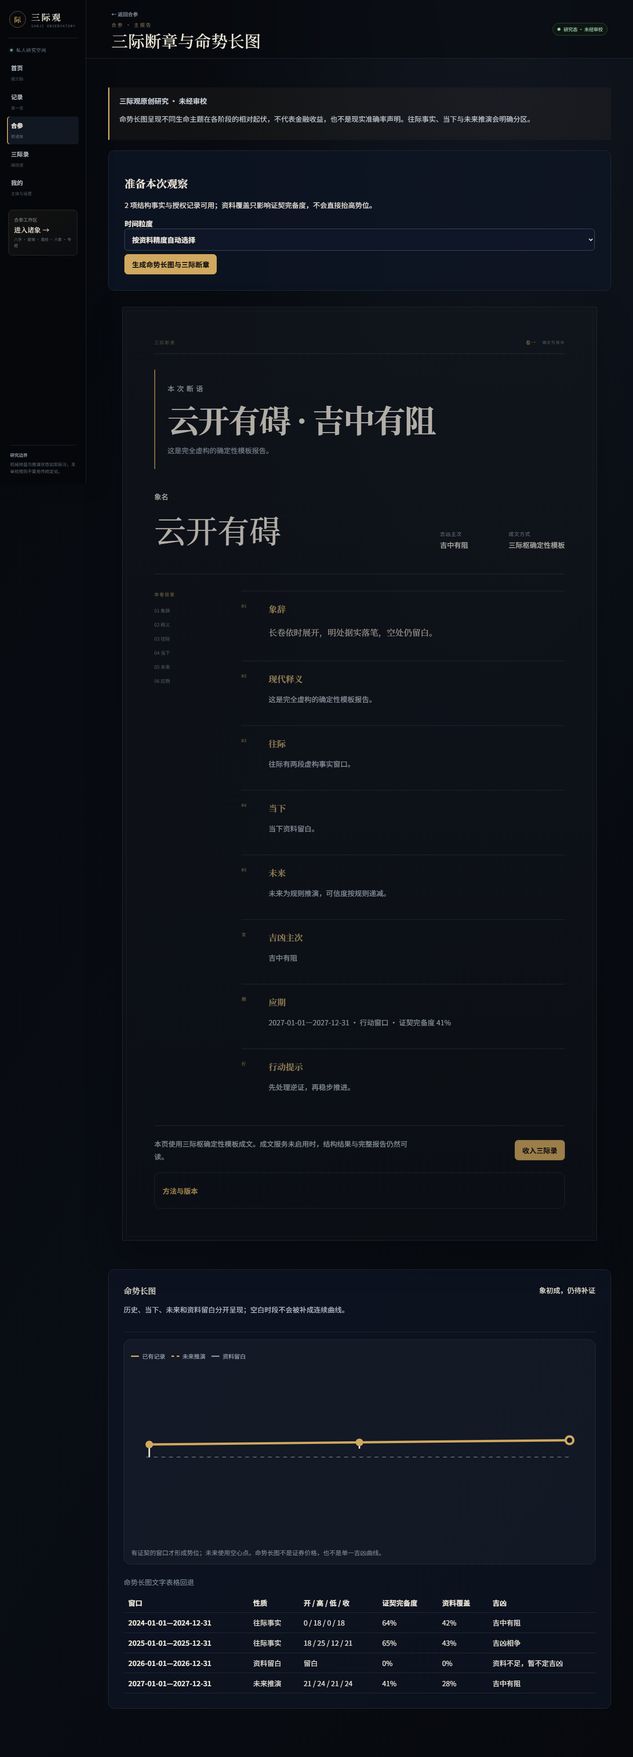
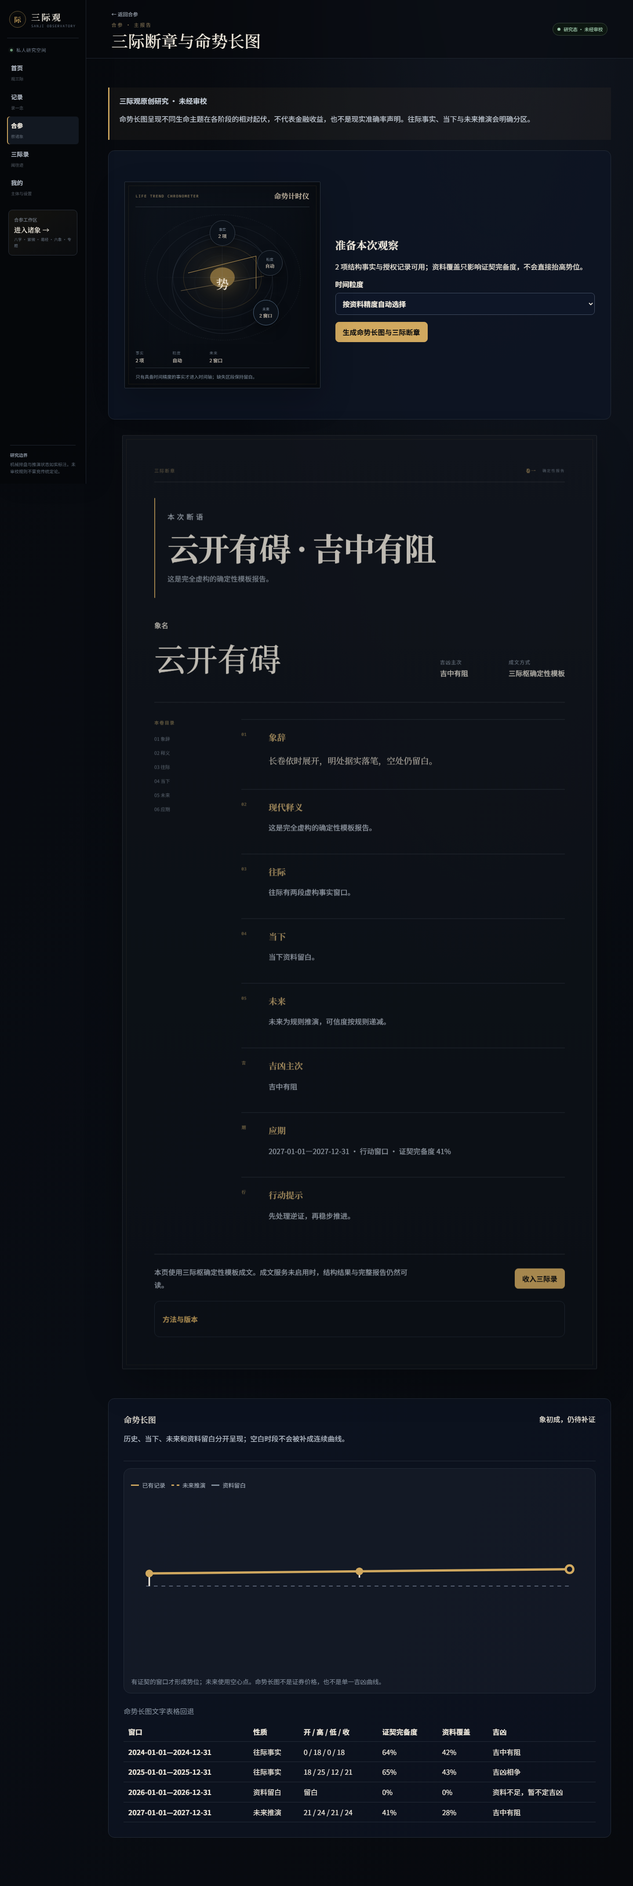
feat(web): establish zhuxiang instrument experience

diff --git a/apps/web/app/styles.css b/apps/web/app/styles.css
@@ -251,3 +251,53 @@ body{background:#07090d;color:var(--lotus)}
 @media(max-width:1000px){.home-observatory{min-height:380px}.home-celestial{width:min(43vw,330px)}.tool-instrument{width:92px}.tool-grid article h2{max-width:calc(100% - 86px)}}
 @media(max-width:767px){.home-observatory{min-height:410px;margin-top:25px}.home-celestial{width:min(88vw,330px)}.home-observatory>.product-state{bottom:0;width:92%}.tool-instrument{right:16px;top:58px;width:100px}.ritual-progress{display:grid;grid-template-columns:auto 1fr auto 1fr auto;gap:6px;font-size:.6rem}.tool-grid article h2{max-width:calc(100% - 92px)}}
 @media(prefers-reduced-motion:reduce){.home-celestial>i,.tool-instrument>i,.ritual-progress i,.liuxiang-result,.report-reader{animation:none!important}.tool-grid article:hover .tool-instrument{transform:none}}
+
+/* V1.2 诸象成仪 — every diagram is a projection of returned structure, never a second calculator. */
+.result-stage,.topic-result__instrument,.life-trend-preflight{display:grid;grid-template-columns:minmax(360px,.86fr) minmax(0,1.14fr);gap:34px;align-items:stretch;margin:34px 0}
+.result-stage>.scope-card,.topic-result__instrument>div,.life-trend-preflight>div{align-self:center}
+.result-stage>.scope-card{margin:0;padding:34px;border:1px solid #2b333e;border-radius:2px;background:linear-gradient(145deg,rgba(16,23,33,.9),rgba(8,12,18,.7))}
+.structure-callout{font:500 clamp(1.55rem,3vw,2.6rem) "Noto Serif SC",serif;letter-spacing:.16em;color:#e9decb}
+.result-primary--instrument{grid-template-columns:minmax(360px,.9fr) minmax(300px,1.1fr)}
+
+.observation-instrument{position:relative;isolation:isolate;min-height:470px;margin:0;display:grid;align-content:center;justify-items:center;overflow:hidden;border:1px solid #2d3540;border-radius:2px;background:radial-gradient(circle at 50% 45%,rgba(207,165,84,.105),transparent 29%),linear-gradient(145deg,#0e141d,#090d13 68%);box-shadow:inset 0 0 90px rgba(0,0,0,.42),0 28px 72px rgba(0,0,0,.22)}
+.observation-instrument::before{content:"";position:absolute;inset:8px;z-index:-1;border:1px solid rgba(205,165,88,.1);pointer-events:none}
+.observation-instrument>header{position:absolute;z-index:4;left:24px;right:24px;top:20px;display:flex;justify-content:space-between;align-items:center;padding-bottom:13px;border-bottom:1px solid #29313a}
+.observation-instrument>header small{font:600 .54rem "Noto Sans Mono",monospace;letter-spacing:.16em;color:#776b53}.observation-instrument>header b{font:500 1rem "Noto Serif SC",serif;color:#d8c9b2}
+.instrument-frame{position:absolute;z-index:-1;inset:74px 10% 108px;display:grid;place-items:center}
+.instrument-frame::before,.instrument-frame::after,.instrument-frame>i{content:"";position:absolute;inset:8%;border:1px solid rgba(154,169,187,.12);border-radius:50%}
+.instrument-frame::after{inset:25%;border-color:rgba(207,165,84,.22)}
+.instrument-frame>i:nth-child(1){inset:0;border-style:dashed;animation:celestial-spin 95s linear infinite}
+.instrument-frame>i:nth-child(2){inset:18%;border-color:rgba(111,133,161,.18);animation:celestial-spin 65s linear infinite reverse}
+.instrument-frame>i:nth-child(3){inset:42%;border:0;background:rgba(209,166,82,.55);box-shadow:0 0 36px rgba(209,166,82,.26)}
+.instrument-frame>span{position:absolute;width:1px;height:100%;background:linear-gradient(transparent,rgba(135,151,171,.18),transparent)}.instrument-frame>span:last-child{transform:rotate(90deg)}
+.observation-instrument figcaption{position:absolute;left:24px;right:24px;bottom:17px;margin:0;padding-top:12px;border-top:1px solid #29313a;color:#768391;font-size:.64rem;line-height:1.55;text-align:left}
+.instrument-legend{position:absolute;z-index:4;left:24px;right:24px;bottom:55px;display:flex;gap:16px;margin:0;overflow:hidden}.instrument-legend>div{min-width:68px}.instrument-legend dt{color:#65717f;font-size:.54rem}.instrument-legend dd{margin:4px 0 0;overflow:hidden;text-overflow:ellipsis;white-space:nowrap;color:#c9c1b5;font-size:.67rem}
+
+.instrument-hexagram{position:relative;z-index:2;width:148px;display:grid;gap:13px;margin-top:-6px}.instrument-hexagram>span{position:relative;display:block;height:11px;background:linear-gradient(90deg,#c49b50,#efd291);box-shadow:0 0 18px rgba(214,171,91,.12)}
+.instrument-hexagram>span[data-yin=true]{background:linear-gradient(90deg,#c49b50 0 43%,transparent 43% 57%,#efd291 57%)}
+.instrument-hexagram>span[data-moving=true]::after{content:"";position:absolute;right:-22px;top:50%;width:7px;height:7px;transform:translateY(-50%);border:1px solid #e4b65f;border-radius:50%;box-shadow:0 0 14px #d4a34d}
+.observation-instrument[data-mode=yijing] .instrument-frame{transform:rotate(22.5deg)}
+
+.instrument-pillars{position:relative;z-index:2;display:grid;grid-template-columns:repeat(4,64px);gap:13px;margin-top:-8px}.instrument-pillars>span{display:grid;justify-items:center;gap:5px;padding:12px 8px 15px;border:1px solid #4a4234;background:linear-gradient(180deg,rgba(207,165,84,.1),rgba(11,16,23,.85));box-shadow:0 16px 30px rgba(0,0,0,.22)}
+.instrument-pillars small{font-size:.52rem;color:#6e7986}.instrument-pillars b,.instrument-pillars em{font:500 1.75rem "Noto Serif SC",serif;color:#e9dfd0}.instrument-pillars em{color:#bf9a5b;font-style:normal}.observation-instrument[data-mode=bazi] .instrument-frame{inset:92px 6% 118px;border:1px solid rgba(199,158,79,.1);transform:rotate(45deg)}
+
+.instrument-palaces{position:relative;z-index:2;width:218px;aspect-ratio:1;margin-top:-8px;border:1px solid #514936;transform:rotate(15deg);background:repeating-conic-gradient(from 0deg,rgba(205,164,84,.08) 0 1deg,transparent 1deg 30deg)}
+.instrument-palaces::before{content:"";position:absolute;inset:23%;border:1px solid #514936;background:#0c121a}.instrument-palaces>b{position:absolute;inset:0;display:grid;place-items:center;transform:rotate(-15deg);color:#e5d6bd;font:500 2.1rem "Noto Serif SC",serif}
+.instrument-palaces>i{position:absolute;left:50%;top:50%;width:1px;height:50%;transform-origin:50% 0;background:linear-gradient(rgba(203,164,88,.28),transparent)}
+.instrument-palaces>i:nth-child(1){transform:rotate(0deg)}.instrument-palaces>i:nth-child(2){transform:rotate(30deg)}.instrument-palaces>i:nth-child(3){transform:rotate(60deg)}.instrument-palaces>i:nth-child(4){transform:rotate(90deg)}.instrument-palaces>i:nth-child(5){transform:rotate(120deg)}.instrument-palaces>i:nth-child(6){transform:rotate(150deg)}.instrument-palaces>i:nth-child(7){transform:rotate(180deg)}.instrument-palaces>i:nth-child(8){transform:rotate(210deg)}.instrument-palaces>i:nth-child(9){transform:rotate(240deg)}.instrument-palaces>i:nth-child(10){transform:rotate(270deg)}.instrument-palaces>i:nth-child(11){transform:rotate(300deg)}.instrument-palaces>i:nth-child(12){transform:rotate(330deg)}
+
+.instrument-orbit{position:relative;z-index:2;width:230px;aspect-ratio:1;margin-top:-8px;border:1px solid rgba(135,151,171,.2);border-radius:50%;background:radial-gradient(circle,rgba(207,165,84,.12),transparent 12% 38%,rgba(117,139,169,.045) 39%,transparent 40%)}
+.instrument-orbit::before,.instrument-orbit::after{content:"";position:absolute;inset:16%;border:1px solid rgba(205,165,87,.24);border-radius:50%}.instrument-orbit::after{inset:36%;border-color:#584c35}
+.instrument-orbit>b{position:absolute;inset:0;display:grid;place-items:center;color:#eadfcd;font:500 1.8rem "Noto Serif SC",serif}
+.instrument-node{position:absolute;z-index:3;width:58px;height:58px;display:grid;place-items:center;align-content:center;border:1px solid #3b4551;border-radius:50%;background:#0b1119;box-shadow:0 12px 26px rgba(0,0,0,.35);text-align:center}.instrument-node small{font-size:.5rem;color:#768391}.instrument-node em{max-width:48px;overflow:hidden;text-overflow:ellipsis;white-space:nowrap;color:#d5c9b7;font:500 .65rem "Noto Serif SC",serif}.instrument-node[data-state=counter]{border-color:#7b5a4b}.instrument-node[data-state=missing]{border-style:dashed;opacity:.68}.instrument-node[data-state=future]{border-color:#526982}
+.instrument-node--1{left:50%;top:-13%;transform:translateX(-50%)}.instrument-node--2{right:-10%;top:17%}.instrument-node--3{right:-6%;bottom:8%}.instrument-node--4{left:50%;bottom:-13%;transform:translateX(-50%)}.instrument-node--5{left:-6%;bottom:8%}.instrument-node--6{left:-10%;top:17%}
+.observation-instrument[data-mode=sushe] .instrument-orbit{border-style:dashed;background:radial-gradient(circle at 33% 28%,rgba(218,181,111,.16) 0 1px,transparent 2px),radial-gradient(circle at 70% 72%,rgba(132,154,186,.16) 0 1px,transparent 2px)}
+.observation-instrument[data-mode=zhongyin] .instrument-orbit{border-radius:48% 48% 6px 6px;border-color:#5c5039}.observation-instrument[data-mode=zhongyin] .instrument-orbit::before{border-radius:48% 48% 4px 4px}.observation-instrument[data-mode=zhongyin] .instrument-frame>span:first-of-type{width:38%;height:1px;background:linear-gradient(90deg,transparent,#b79251,transparent)}
+.observation-instrument[data-mode=yuanqi] .instrument-orbit::before{inset:22% 48% 22% 5%}.observation-instrument[data-mode=yuanqi] .instrument-orbit::after{inset:22% 5% 22% 48%}.observation-instrument[data-mode=yuanqi] .instrument-orbit{border-style:dashed}
+.observation-instrument[data-mode=life-trend] .instrument-orbit::before{inset:50% 8% auto;height:1px;border:0;border-top:1px solid #786748;border-radius:0;transform:rotate(-10deg)}.observation-instrument[data-mode=life-trend] .instrument-orbit::after{inset:31% 16% 36%;border:0;border-right:1px solid #cba35b;border-top:1px solid #cba35b;border-radius:0;transform:skewY(-14deg)}
+
+.ritual-progress--staged{display:grid;grid-template-columns:repeat(3,1fr);gap:1px;padding:0;background:#2b333e;border-color:#2b333e}.ritual-progress--staged>span{display:flex;align-items:center;gap:9px;padding:12px 10px;background:#0d131c;color:#687482;letter-spacing:0}.ritual-progress--staged>span>i{flex:none;width:23px;height:23px;display:grid;place-items:center;border:1px solid #3a4552;border-radius:50%;background:none;color:#7b8794;font:600 .52rem "Noto Sans Mono",monospace;animation:none}.ritual-progress--staged>span[data-state=current]{color:#d6c7ae;background:linear-gradient(90deg,rgba(203,160,78,.11),#0d131c)}.ritual-progress--staged>span[data-state=current]>i{border-color:#af8a49;color:#e3bc71;box-shadow:0 0 18px rgba(207,165,84,.14)}.ritual-progress--staged>span[data-state=done]>i{border-color:#486452;color:#8fbd9b}
+
+@media(max-width:1000px){.result-stage,.topic-result__instrument,.life-trend-preflight,.result-primary--instrument{grid-template-columns:1fr}.observation-instrument{min-height:440px}.result-primary--instrument>.observation-instrument{order:0}.result-primary--instrument>div{order:1}}
+@media(max-width:767px){.result-stage,.topic-result__instrument,.life-trend-preflight{display:block}.observation-instrument{min-height:420px;margin-bottom:22px}.observation-instrument>header{left:17px;right:17px}.instrument-frame{inset:72px 2% 110px}.instrument-pillars{grid-template-columns:repeat(4,55px);gap:8px}.instrument-pillars>span{padding-inline:5px}.instrument-legend{left:17px;right:17px;gap:10px}.instrument-legend>div{min-width:57px}.observation-instrument figcaption{left:17px;right:17px}.ritual-progress--staged{grid-template-columns:1fr}.ritual-progress--staged>span{min-height:44px}.topic-result__instrument>.observation-instrument{margin-bottom:18px}}
+@media(prefers-reduced-motion:reduce){.instrument-frame>i{animation:none!important}}

diff --git a/apps/web/components/ZiweiCompleteJourney.tsx b/apps/web/components/ZiweiCompleteJourney.tsx
@@ -2,6 +2,7 @@
 
 import Link from "next/link";import {useEffect,useState} from "react";
 import ProductShell,{PageState,TechnicalDetails} from "./ProductShell";import {apiRequest,readProductSession} from "../lib/product-session";
+import ObservationInstrument,{RitualProgress} from "./ObservationInstrument";
 
 export default function ZiweiCompleteJourney(){
  const [profileId,setProfileId]=useState("");const [year,setYear]=useState("");const [month,setMonth]=useState("");const [day,setDay]=useState("");const [hour,setHour]=useState("0");const [sex,setSex]=useState("male");const [leap,setLeap]=useState(false);const [run,setRun]=useState<any>(null);const [busy,setBusy]=useState(false);const [error,setError]=useState("");
@@ -9,5 +10,6 @@ export default function ZiweiCompleteJourney(){
  async function execute(){setError("");if(!year||!month||!day){setError("请录入经过人工确认的农历年月日。当前不会自动把公历静默转换为农历。");return}setBusy(true);try{setRun(await apiRequest<any>("/api/v1/traditional-complete/execute",{method:"POST",body:JSON.stringify({profile_record_id:profileId,ziwei:{lunar_year:Number(year),lunar_month:leap?-Number(month):Number(month),lunar_day:Number(day),hour_index:Number(hour),traditional_sex:sex,target_date:new Date().toISOString().slice(0,10),method_profile:{profile_id:"ziwei-sanhe-complete-v1",version:"1.0.0",leap_month_policy:"iztro_fix_leap_true"}}})}))}catch(e){setError(e instanceof Error?e.message:String(e))}finally{setBusy(false)}}
  if(!profileId)return <ProductShell title="紫微机械结构" eyebrow="合参 · 紫微"><PageState kind="insufficient" title="请先建立主体"><Link className="product-button" href="/onboarding">建立主体</Link></PageState></ProductShell>;
  const system=run?.result?.module_results?.["traditional-complete"]?.result?.systems?.find((v:any)=>v.system==="ziwei");const result=system?.result;const mechanical=run?.mechanical_results?.ziwei;
- return <ProductShell title="紫微三合研究结构" eyebrow="合参 · 紫微" status="research_active · UNCONFIRMED"><aside className="privacy-note"><b>受限三合研究 Profile</b><p>请输入人工确认的农历资料。闰月策略固定显示，不隐藏选择；本页不宣称覆盖所有紫微门派。</p></aside><section className="product-form"><div className="field-pair"><label>农历年<input type="number" min="1600" max="2600" value={year} onChange={e=>setYear(e.target.value)}/></label><label>农历月<input type="number" min="1" max="12" value={month} onChange={e=>setMonth(e.target.value)}/></label></div><div className="field-pair"><label>农历日<input type="number" min="1" max="30" value={day} onChange={e=>setDay(e.target.value)}/></label><label>时支序号（子=0）<input type="number" min="0" max="11" value={hour} onChange={e=>setHour(e.target.value)}/></label></div><label className="check-field"><input type="checkbox" checked={leap} onChange={e=>setLeap(e.target.checked)}/><span>这是闰月</span></label><label>传统性别参数<select value={sex} onChange={e=>setSex(e.target.value)}><option value="male">男</option><option value="female">女</option></select></label><button className="product-button" disabled={busy} onClick={execute}>{busy?"正在计算…":"执行紫微研究 Profile"}</button>{error&&<p role="alert" className="field-error">{error}</p>}</section>{system&&<><section className="scope-card"><h2>宫盘摘要</h2><p>命宫 {result.life_palace_branch}；身宫 {result.body_palace_branch}；五行局 {result.five_element_bureau}</p><p>十二宫 {result.palaces?.length}；主星结构 {mechanical?.palaces?.length||0} 宫；Profile {system.profile_id}；状态 {system.status}</p></section><TechnicalDetails><pre>{JSON.stringify({profile:system.profile_id,ruleset:system.ruleset_version,mechanical,result,output_hash:run.result.output_hash,trace_hash:run.result.trace_hash},null,2)}</pre></TechnicalDetails></>}</ProductShell>;
+ const palaceItems=[{label:"命宫",value:result?.life_palace_branch||"—"},{label:"身宫",value:result?.body_palace_branch||"—"},{label:"五行局",value:result?.five_element_bureau||"—"},{label:"宫位",value:`${result?.palaces?.length||0} 宫`}];
+ return <ProductShell title="紫微三合研究结构" eyebrow="合参 · 紫微" status="research_active · UNCONFIRMED"><aside className="privacy-note"><b>受限三合研究 Profile</b><p>请输入人工确认的农历资料。闰月策略固定显示，不隐藏选择；本页不宣称覆盖所有紫微门派。</p></aside><section className="product-form"><div className="field-pair"><label>农历年<input type="number" min="1600" max="2600" value={year} onChange={e=>setYear(e.target.value)}/></label><label>农历月<input type="number" min="1" max="12" value={month} onChange={e=>setMonth(e.target.value)}/></label></div><div className="field-pair"><label>农历日<input type="number" min="1" max="30" value={day} onChange={e=>setDay(e.target.value)}/></label><label>时支序号（子=0）<input type="number" min="0" max="11" value={hour} onChange={e=>setHour(e.target.value)}/></label></div><label className="check-field"><input type="checkbox" checked={leap} onChange={e=>setLeap(e.target.checked)}/><span>这是闰月</span></label><label>传统性别参数<select value={sex} onChange={e=>setSex(e.target.value)}><option value="male">男</option><option value="female">女</option></select></label>{busy&&<RitualProgress steps={["历法核验","命身定位","十二宫安置"]} current={1}/>}<button className="product-button" disabled={busy} onClick={execute}>{busy?"正在计算…":"执行紫微研究 Profile"}</button>{error&&<p role="alert" className="field-error">{error}</p>}</section>{system&&<><section className="result-stage"><ObservationInstrument mode="ziwei" title="十二宫盘" items={palaceItems} caption="只呈现当前引擎已确定的宫盘结构，不补充未经审校的星曜解释。"/><div className="scope-card"><p className="eyebrow">宫盘摘要</p><h2>命身与五行局</h2><p className="structure-callout">命宫 {result.life_palace_branch}　身宫 {result.body_palace_branch}</p><p>五行局 {result.five_element_bureau}</p><p>十二宫 {result.palaces?.length}；主星结构 {mechanical?.palaces?.length||0} 宫；Profile {system.profile_id}；状态 {system.status}</p></div></section><TechnicalDetails><pre>{JSON.stringify({profile:system.profile_id,ruleset:system.ruleset_version,mechanical,result,output_hash:run.result.output_hash,trace_hash:run.result.trace_hash},null,2)}</pre></TechnicalDetails></>}</ProductShell>;
 }

diff --git a/apps/web/tests/evidence/v1-rc-evidence.spec.ts b/apps/web/tests/evidence/v1-rc-evidence.spec.ts
@@ -141,3 +141,9 @@ test("three coin mechanical entry",async({page})=>{await page.setViewportSize({w
 test("bazi unknown-time boundary",async({page})=>{await page.setViewportSize({width:1440,height:1000});await seedSyntheticSubject(page);await page.route(`**/api/v1/profiles/${profileId}`,async route=>route.fulfill({status:200,contentType:"application/json",body:JSON.stringify({id:profileId,birth_record_status:"confirmed",birth:{calendar_type:"gregorian",local_date:"1990-01-01",local_time:null,timezone_id:"Asia/Shanghai",time_precision:"unknown",place:{longitude:121.4737}}})}));await page.goto("/consult/bazi");await expect(page.getByRole("heading",{name:"出生时刻未知，暂不生成完整四柱"})).toBeVisible();await page.screenshot({path:path.join(evidenceDir,"v1-1-bazi-unknown-time-1440.png"),fullPage:true});});
 test("ziwei research input",async({page})=>{await page.setViewportSize({width:1440,height:1000});await seedSyntheticSubject(page);await page.goto("/consult/ziwei");await expect(page.getByRole("heading",{name:"紫微三合研究结构"})).toBeVisible();await page.screenshot({path:path.join(evidenceDir,"v1-1-ziwei-research-1440.png"),fullPage:true});});
 test("network offline state",async({page})=>{await page.setViewportSize({width:390,height:844});await page.goto("/offline");await expect(page.getByRole("heading",{name:"暂时无法连接三际观服务"})).toBeVisible();await page.screenshot({path:path.join(evidenceDir,"v1-1-network-offline-390.png"),fullPage:true});});
+
+test("yijing result instrument",async({page})=>{await page.setViewportSize({width:1440,height:1100});const runId="synthetic-yijing-instrument";await page.route(`**/api/v1/divinations/${runId}`,async route=>route.fulfill({status:200,contentType:"application/json",body:JSON.stringify({id:runId,research_status:"research_active",result_hash:"sha256:synthetic-yijing-instrument",engine_result:{lines:[{line_position:1,sum:8,line_state:"young_yin",moving:false},{line_position:2,sum:7,line_state:"young_yang",moving:false},{line_position:3,sum:9,line_state:"old_yang",moving:true},{line_position:4,sum:8,line_state:"young_yin",moving:false},{line_position:5,sum:7,line_state:"young_yang",moving:false},{line_position:6,sum:6,line_state:"old_yin",moving:true}],moving_lines:[3,6],base_hexagram:{sequence:63,name:"既济",key:"ji_ji"},transformed_hexagram:{sequence:37,name:"家人",key:"jia_ren"},method_version:"1.0.0",mapping_asset:{asset_version:"1.0.0"}}})}));await page.goto(`/results/${runId}`);await expect(page.getByText("既济 → 家人")).toBeVisible();await page.screenshot({path:path.join(evidenceDir,"v1-2-yijing-instrument-1440.png"),fullPage:true});});
+
+test("bazi four-pillar instrument",async({page})=>{await page.setViewportSize({width:1440,height:1100});await seedSyntheticSubject(page);await page.route(`**/api/v1/profiles/${profileId}`,async route=>route.fulfill({status:200,contentType:"application/json",body:JSON.stringify({id:profileId,birth_record_status:"confirmed",birth:{calendar_type:"gregorian",local_date:"1990-01-01",local_time:"12:30:00",timezone_id:"Asia/Shanghai",time_precision:"exact",place:{longitude:121.4737}}})}));await page.route("**/api/v1/traditional-complete/execute",async route=>route.fulfill({status:201,contentType:"application/json",body:JSON.stringify({id:"synthetic-bazi",mechanical_results:{bazi:{pillars:{year:"己巳",month:"丙子",day:"丙寅",hour:"甲午"}}},result:{output_hash:"sha256:synthetic-bazi-output",trace_hash:"sha256:synthetic-bazi-trace",module_results:{"traditional-complete":{result:{status:"research_active",warnings:[],systems:[{system:"bazi",profile_id:"bazi-ziping-complete-v1",ruleset_version:"1.0.0",strength_bp:5200,confidence_bp:4300,status:"provisional",result:{strength:{status:"research_only",balance_bp:400},pattern:{candidate:"结构候选【可能】"},useful_elements:{candidates:["研究候选"]}}}]}}}}})}));await page.goto("/consult/bazi");await page.getByRole("button",{name:"按当前研究方法排盘"}).click();await expect(page.getByRole("heading",{name:"四柱与传统结构"})).toBeVisible();await page.screenshot({path:path.join(evidenceDir,"v1-2-bazi-instrument-1440.png"),fullPage:true});});
+
+test("ziwei palace instrument",async({page})=>{await page.setViewportSize({width:1440,height:1100});await seedSyntheticSubject(page);await page.route("**/api/v1/traditional-complete/execute",async route=>route.fulfill({status:201,contentType:"application/json",body:JSON.stringify({id:"synthetic-ziwei",mechanical_results:{ziwei:{palaces:Array.from({length:12},(_,index)=>({index}))}},result:{output_hash:"sha256:synthetic-ziwei-output",trace_hash:"sha256:synthetic-ziwei-trace",module_results:{"traditional-complete":{result:{status:"research_active",warnings:[],systems:[{system:"ziwei",profile_id:"ziwei-sanhe-complete-v1",ruleset_version:"1.0.0",strength_bp:0,confidence_bp:4200,status:"provisional",result:{life_palace_branch:"午",body_palace_branch:"申",five_element_bureau:"木三局",palaces:Array.from({length:12},(_,index)=>({index}))}}]}}}}})}));await page.goto("/consult/ziwei");await page.locator("input[type=number]").nth(0).fill("1990");await page.locator("input[type=number]").nth(1).fill("6");await page.locator("input[type=number]").nth(2).fill("9");await page.getByRole("button",{name:"执行紫微研究 Profile"}).click();await expect(page.getByRole("heading",{name:"命身与五行局"})).toBeVisible();await page.screenshot({path:path.join(evidenceDir,"v1-2-ziwei-instrument-1440.png"),fullPage:true});});

diff --git a/apps/web/components/BaziCompleteJourney.tsx b/apps/web/components/BaziCompleteJourney.tsx
@@ -3,6 +3,7 @@
 import Link from "next/link";
 import {useEffect,useState} from "react";
 import ProductShell,{MetricPair,PageState,TechnicalDetails} from "./ProductShell";
+import ObservationInstrument,{RitualProgress} from "./ObservationInstrument";
 import {apiRequest,readProductSession} from "../lib/product-session";
 
 type Birth={calendar_type:string;local_date:string;local_time:string|null;timezone_id:string;time_precision:string;place:{longitude:number}};
@@ -18,5 +19,6 @@ export default function BaziCompleteJourney(){
  if(!profile)return <ProductShell title="八字传统结构" eyebrow="合参 · 八字"><PageState kind="insufficient" title="请先建立主体"><Link className="product-button" href="/onboarding">建立主体</Link></PageState></ProductShell>;
  if(!profile.birth||!profile.birth.local_time)return <ProductShell title="八字传统结构" eyebrow="合参 · 八字"><PageState kind="insufficient" title="出生时刻未知，暂不生成完整四柱"><p>系统不会补造时辰。可先完善资料，或继续使用未知时辰的候选研究。</p><Link className="product-button" href="/onboarding">完善资料</Link></PageState></ProductShell>;
  const system=run?.result.module_results["traditional-complete"].result.systems.find(v=>v.system==="bazi");const result=system?.result;const mechanical=run?.mechanical_results?.bazi;
- return <ProductShell title="八字传统结构" eyebrow="合参 · 八字" status="研究中 · 尚未审校"><aside className="privacy-note"><b>固定研究方法，不代表所有八字流派共识</b><p>结构与候选由确定性引擎生成；DeepSeek 不参与。旺衰、格局、调候和用神仍是该方法下的研究候选。</p></aside><section className="product-form"><label>传统性别参数<select value={sex} onChange={e=>setSex(e.target.value)}><option value="male">男</option><option value="female">女</option></select></label><button className="product-button" disabled={state==="running"} onClick={execute}>{state==="running"?"正在计算…":"按当前研究方法排盘"}</button>{error&&<p role="alert" className="field-error">{error}</p>}</section>{system&&<><section className="scope-card"><h2>四柱与传统结构</h2><p>{Object.values(mechanical?.pillars||{}).join("　")}</p><MetricPair strengthBp={system.strength_bp} confidenceBp={system.confidence_bp}/><p>当前状态：{system.status}</p><h3>旺衰研究证据</h3><p>{result.strength?.status} · 平衡基点 {result.strength?.balance_bp}</p><h3>格局与用神研究候选</h3><p>{result.pattern?.candidate} · {result.useful_elements?.candidates?.join("、")}</p></section><TechnicalDetails><pre>{JSON.stringify({profile:system.profile_id,ruleset:system.ruleset_version,mechanical,result,output_hash:run?.result.output_hash,trace_hash:run?.result.trace_hash},null,2)}</pre></TechnicalDetails></>}</ProductShell>;
+ const pillars=Object.entries(mechanical?.pillars||{}).map(([label,value])=>({label:{year:"年柱",month:"月柱",day:"日柱",hour:"时柱"}[label]||label,value:String(value)}));
+ return <ProductShell title="八字传统结构" eyebrow="合参 · 八字" status="研究中 · 尚未审校"><aside className="privacy-note"><b>固定研究方法，不代表所有八字流派共识</b><p>结构与候选由确定性引擎生成；DeepSeek 不参与。旺衰、格局、调候和用神仍是该方法下的研究候选。</p></aside><section className="product-form"><label>传统性别参数<select value={sex} onChange={e=>setSex(e.target.value)}><option value="male">男</option><option value="female">女</option></select></label>{state==="running"&&<RitualProgress steps={["时刻校正","节气定界","四柱成盘"]} current={1}/>}<button className="product-button" disabled={state==="running"} onClick={execute}>{state==="running"?"正在计算…":"按当前研究方法排盘"}</button>{error&&<p role="alert" className="field-error">{error}</p>}</section>{system&&<><section className="result-stage"><ObservationInstrument mode="bazi" title="四柱结构" items={pillars} caption="四柱按当前方法 Profile 形成；结构图不表示旺衰、格局或吉凶。"/><div className="scope-card"><p className="eyebrow">主要结构</p><h2>四柱与传统结构</h2><p className="structure-callout">{Object.values(mechanical?.pillars||{}).join("　")}</p><MetricPair strengthBp={system.strength_bp} confidenceBp={system.confidence_bp}/><p>当前状态：{system.status}</p><h3>旺衰研究证据</h3><p>{result.strength?.status} · 平衡基点 {result.strength?.balance_bp}</p><h3>格局与用神研究候选</h3><p>{result.pattern?.candidate} · {result.useful_elements?.candidates?.join("、")}</p></div></section><TechnicalDetails><pre>{JSON.stringify({profile:system.profile_id,ruleset:system.ruleset_version,mechanical,result,output_hash:run?.result.output_hash,trace_hash:run?.result.trace_hash},null,2)}</pre></TechnicalDetails></>}</ProductShell>;
 }

diff --git a/apps/web/components/TopicResearch.tsx b/apps/web/components/TopicResearch.tsx
@@ -3,6 +3,7 @@
 import Link from "next/link";
 import { useEffect, useState } from "react";
 import ProductShell, { MetricPair, PageState, TechnicalDetails, VerdictBanner } from "./ProductShell";
+import ObservationInstrument,{RitualProgress,type InstrumentMode} from "./ObservationInstrument";
 import { apiRequest, readProductSession } from "../lib/product-session";
 import { epistemicDisplay, productStatus } from "../lib/product-language";
 
@@ -47,6 +48,8 @@ function ep(value?:Epistemic<unknown>){
   return epistemicDisplay(shown,value.epistemic_status,value.confidence_bp);
 }
 
+function topicInstrument(mode:Topic):InstrumentMode{return mode==="sushe"?"sushe":mode.startsWith("zhongyin")?"zhongyin":"yuanqi"}
+
 export default function TopicResearch({topic}: {topic:Topic}){
   const [mode,setMode]=useState<Topic>(topic);
   const [profileId,setProfileId]=useState(""); const [items,setItems]=useState<Evidence[]>([]);
@@ -62,10 +65,10 @@ export default function TopicResearch({topic}: {topic:Topic}){
     {!profileId&&<PageState kind="insufficient" title="先建立或选择主体"><p>专题推演只读取你授权主体的记录。</p><Link className="product-button" href="/onboarding">建立主体</Link></PageState>}
     {profileId&&<section className="product-form" aria-label="专题资料选择"><h2>选择本次参与的资料</h2><p>{items.length} 条结构引用可用；撤销记录不会进入新执行。</p>
       {items.map(item=><label className="check-field" key={item.record_id}><input type="checkbox" checked={!excluded.has(item.record_id)&&!item.withdrawn} disabled={item.withdrawn} onChange={e=>setExcluded(old=>{const next=new Set(old);e.target.checked?next.delete(item.record_id):next.add(item.record_id);return next})}/><span><b>{item.node_type}</b><small>{item.tags.join("、")||"资料覆盖"}{item.withdrawn?" · 已撤销":""}</small></span></label>)}
-      <button className="product-button" aria-disabled={state==="running"} aria-busy={state==="running"} onClick={runTopic}>{state==="running"?"正在确定性推演…":"开始专题推演"}</button>
+      {state==="running"&&<RitualProgress steps={["事实归卷","证据成图","候选显现"]} current={1}/>}<button className="product-button" aria-disabled={state==="running"} aria-busy={state==="running"} onClick={runTopic}>{state==="running"?"正在确定性推演…":"开始专题推演"}</button>
     </section>}
     {error&&<PageState kind="error" title="本次执行未完成"><p>{error}。已有记录没有被覆盖，可检查资料后重试。</p></PageState>}
-    {run&&<section className="chronicle-detail topic-result"><VerdictBanner status={run.status} title={productStatus(run.status)}><p>{run.status==="insufficient"?"现有资料仍不足以形成稳定判断；下方候选保留为低可信研究线索。":run.status==="contested"?"主要候选彼此接近或存在明显冲突，请同时阅读支持、逆证与尚缺资料。":"结果已按当前资料和研究规则形成；它不是经过传统审校的定论。"}</p></VerdictBanner><MetricPair strengthBp={run.strength_bp} confidenceBp={run.confidence_bp}/>
+    {run&&<section className="chronicle-detail topic-result"><div className="topic-result__instrument"><ObservationInstrument mode={topicInstrument(mode)} title={COPY[mode].title} items={run.candidates.slice(0,3).map((item,index)=>({label:`候选 ${index+1}`,value:item.name?ep(item.name):productStatus(item.status),state:item.status==="contested"?"counter":item.status==="insufficient"?"missing":"active"}))} caption="图中只排列当前确定性执行返回的候选和状态；它不是历史事实或传统定论。"/><div><VerdictBanner status={run.status} title={productStatus(run.status)}><p>{run.status==="insufficient"?"现有资料仍不足以形成稳定判断；下方候选保留为低可信研究线索。":run.status==="contested"?"主要候选彼此接近或存在明显冲突，请同时阅读支持、逆证与尚缺资料。":"结果已按当前资料和研究规则形成；它不是经过传统审校的定论。"}</p></VerdictBanner><MetricPair strengthBp={run.strength_bp} confidenceBp={run.confidence_bp}/></div></div>
       {run.candidates.map((item,index)=><section key={item.candidate_id}><span>{String(index+1).padStart(2,"0")}</span><div>
         {item.name&&<h2>{ep(item.name)}</h2>}
         {!item.name&&<h2>候选 {item.rank} · {productStatus(item.status)}</h2>}

diff --git a/apps/web/components/LifeTrendResearch.tsx b/apps/web/components/LifeTrendResearch.tsx
@@ -3,6 +3,7 @@
 import Link from "next/link";
 import { useEffect, useState } from "react";
 import ProductShell, { PageState, TechnicalDetails, VerdictBanner } from "./ProductShell";
+import ObservationInstrument,{RitualProgress} from "./ObservationInstrument";
 import { apiRequest, readProductSession } from "../lib/product-session";
 import { productStatus } from "../lib/product-language";
 
@@ -40,7 +41,7 @@ export default function LifeTrendResearch() {
   if (state === "loading") return <ProductShell title="命势长图" eyebrow="合参 · 三际断章"><PageState kind="loading" title="正在读取授权资料"><p>正在取证。私人正文不会发送给外部模型。</p></PageState></ProductShell>;
   return <ProductShell title="三际断章与命势长图" eyebrow="合参 · 主报告" status="research only">
     <aside className="privacy-note"><b>三际观原创研究 · 未经审校</b><p>命势长图呈现不同生命主题在各阶段的相对起伏，不代表金融收益，也不是现实准确率声明。往际事实、当下与未来推演会明确分区。</p></aside>
-    {!profile ? <PageState kind="insufficient" title="先建立三际录"><p>建立主体并记录带时间精度的事实后，才能起一卷命势观察。</p><Link className="product-button" href="/onboarding">开始立卷</Link></PageState> : <section className="product-form"><h2>准备本次观察</h2><p>{evidence.length} 项结构事实与授权记录可用；资料覆盖只影响证契完备度，不会直接抬高势位。</p><label><span>时间粒度</span><select value={granularity} onChange={(event) => setGranularity(event.target.value)}><option value="auto">按资料精度自动选择</option><option value="month">月</option><option value="quarter">季</option><option value="year">年</option><option value="phase">多年阶段</option></select></label><button className="product-button" aria-disabled={state === "running"} aria-busy={state === "running"} onClick={start}>{state === "running" ? "正在取证、合参与成断…" : "生成命势长图与三际断章"}</button></section>}
+    {!profile ? <PageState kind="insufficient" title="先建立三际录"><p>建立主体并记录带时间精度的事实后，才能起一卷命势观察。</p><Link className="product-button" href="/onboarding">开始立卷</Link></PageState> : <section className="product-form"><div className="life-trend-preflight"><ObservationInstrument mode="life-trend" title="命势计时仪" items={[{label:"事实",value:`${evidence.length} 项`},{label:"粒度",value:granularity==="auto"?"自动":granularity},{label:"未来",value:"2 窗口",state:"future"}]} caption="只有具备时间精度的事实才进入时间轴；缺失区段保持留白。"/><div><h2>准备本次观察</h2><p>{evidence.length} 项结构事实与授权记录可用；资料覆盖只影响证契完备度，不会直接抬高势位。</p><label><span>时间粒度</span><select value={granularity} onChange={(event) => setGranularity(event.target.value)}><option value="auto">按资料精度自动选择</option><option value="month">月</option><option value="quarter">季</option><option value="year">年</option><option value="phase">多年阶段</option></select></label>{state==="running"&&<RitualProgress steps={["时间归序","诸势合参","断章成卷"]} current={1}/>}<button className="product-button" aria-disabled={state === "running"} aria-busy={state === "running"} onClick={start}>{state === "running" ? "正在取证、合参与成断…" : "生成命势长图与三际断章"}</button></div></div></section>}
     {error && <PageState kind="error" title="本次起卷未完成"><p>{error} 已有三际录未被覆盖，可检查连接后重试。</p></PageState>}
     {run && <>
       <article className="report-reader" aria-labelledby="report-title">

diff --git a/apps/web/components/ResultReader.tsx b/apps/web/components/ResultReader.tsx
@@ -2,6 +2,7 @@
 import Link from "next/link";
 import { useEffect, useState } from "react";
 import ProductShell, { PageState, TechnicalDetails } from "./ProductShell";
+import ObservationInstrument from "./ObservationInstrument";
 import { apiRequest } from "../lib/product-session";
 
 const lineNames:Record<string,string>={old_yin:"老阴",young_yang:"少阳",young_yin:"少阴",old_yang:"老阳"};
@@ -16,7 +17,7 @@ export default function ResultReader({runId,traditionalRunId}:{runId:string;trad
  const liuyao=traditional?.result.module_results["traditional-complete"].result.systems.find(v=>v.system==="liuyao");const complete=liuyao?.result;const mechanical=traditional?.mechanical_results?.liuyao;
  return <ProductShell title="易经三钱机械结果" eyebrow="合参 · 阅读结果" status="机械结构">
   <section className="result-summary"><div><p className="eyebrow">本次完成</p><h2>已按实物三钱记录形成卦象结构</h2><p>这不是吉凶、应期或人生结论。你可以核对六爻、本卦、变卦与动爻，然后在研究详情中查看版本。</p></div><span className="result-kind">机械排盘</span></section>
-  <section className="result-primary" aria-labelledby="structure-heading"><div><p className="eyebrow">主要结构</p><h2 id="structure-heading">{result?.base_hexagram?.name||"本卦"} → {result?.transformed_hexagram?.name||"变卦"}</h2><dl><div><dt>本卦</dt><dd>第 {result?.base_hexagram?.sequence||"—"} 卦 · {result?.base_hexagram?.name||"未返回"}</dd></div><div><dt>变卦</dt><dd>第 {result?.transformed_hexagram?.sequence||"—"} 卦 · {result?.transformed_hexagram?.name||"未返回"}</dd></div><div><dt>动爻</dt><dd>{result?.moving_lines?.length?result.moving_lines.join("、"):"无"}</dd></div></dl></div>
+  <section className="result-primary result-primary--instrument" aria-labelledby="structure-heading"><ObservationInstrument mode="yijing" title={result?.base_hexagram?.name||"本卦"} items={(result?.lines||[]).map(line=>({label:`第${line.line_position}爻`,value:lineNames[line.line_state]||line.line_state,state:line.moving?"moving":"active"}))} caption="六爻自下而上保存；亮点只标记真实动爻，不附加吉凶解释。"/><div><p className="eyebrow">主要结构</p><h2 id="structure-heading">{result?.base_hexagram?.name||"本卦"} → {result?.transformed_hexagram?.name||"变卦"}</h2><dl><div><dt>本卦</dt><dd>第 {result?.base_hexagram?.sequence||"—"} 卦 · {result?.base_hexagram?.name||"未返回"}</dd></div><div><dt>变卦</dt><dd>第 {result?.transformed_hexagram?.sequence||"—"} 卦 · {result?.transformed_hexagram?.name||"未返回"}</dd></div><div><dt>动爻</dt><dd>{result?.moving_lines?.length?result.moving_lines.join("、"):"无"}</dd></div></dl></div>
    <ol className="line-results">{result?.lines?.map((line)=><li key={line.line_position}><span>第 {line.line_position} 爻</span><b>{line.sum} · {lineNames[line.line_state]||line.line_state}</b><small>{line.moving?"动爻":"静爻"}</small></li>)}</ol>
   </section>
   {complete&&<section className="scope-card"><h2>六爻传统结构研究</h2><p>本卦 {mechanical?.primary?.name} · {mechanical?.primary?.palace}宫；世爻 {mechanical?.primary?.shi_position}；应爻 {mechanical?.primary?.ying_position}</p><p>用神候选：{complete.question?.liuqin||"资料不足"}；状态：{complete.question?.status}；结构化吉凶：{complete.verdict}</p><p>动爻：{complete.moving_lines?.join("、")||"无"}；伏吟：{complete.structural_flags?.fuyin_positions?.join("、")||"无"}；反吟：{complete.structural_flags?.fanyin_positions?.join("、")||"无"}</p><p className="inline-warning">此结果属于固定六爻研究 Profile，不等于所有六爻流派的唯一断法。</p></section>}

diff --git a/apps/web/components/ObservationInstrument.tsx b/apps/web/components/ObservationInstrument.tsx
@@ -1,0 +1,41 @@
+import type { ReactNode } from "react";
+
+export type InstrumentMode = "yijing" | "bazi" | "ziwei" | "liuxiang" | "sushe" | "zhongyin" | "yuanqi" | "life-trend";
+
+export type InstrumentItem = {
+  label: string;
+  value: string;
+  state?: "active" | "moving" | "future" | "missing" | "counter";
+};
+
+const MODE_COPY: Record<InstrumentMode,{mark:string;english:string}> = {
+  yijing:{mark:"易",english:"HEXAGRAM INSTRUMENT"},
+  bazi:{mark:"命",english:"FOUR PILLARS INSTRUMENT"},
+  ziwei:{mark:"微",english:"PALACE INSTRUMENT"},
+  liuxiang:{mark:"象",english:"EVIDENCE ORBIT"},
+  sushe:{mark:"世",english:"CANDIDATE STAR MAP"},
+  zhongyin:{mark:"间",english:"TRANSITION GATE"},
+  yuanqi:{mark:"缘",english:"RELATIONSHIP KNOT"},
+  "life-trend":{mark:"势",english:"LIFE TREND CHRONOMETER"},
+};
+
+export default function ObservationInstrument({mode,title,items=[],caption,children}:{mode:InstrumentMode;title:string;items?:InstrumentItem[];caption:string;children?:ReactNode}) {
+  const copy=MODE_COPY[mode];
+  return <figure className="observation-instrument" data-mode={mode}>
+    <div className="instrument-frame" aria-hidden="true"><i/><i/><i/><span/><span/></div>
+    <header><small>{copy.english}</small><b>{title}</b></header>
+    {mode==="yijing"&&<div className="instrument-hexagram" aria-hidden="true">{items.slice(0,6).reverse().map((item,index)=><span key={`${item.label}-${index}`} data-yin={item.value.includes("阴")} data-moving={item.state==="moving"}/>)}</div>}
+    {mode==="bazi"&&<div className="instrument-pillars" aria-hidden="true">{items.slice(0,4).map((item)=><span key={item.label}><small>{item.label}</small><b>{item.value.slice(0,1)||"·"}</b><em>{item.value.slice(1,2)||"·"}</em></span>)}</div>}
+    {mode==="ziwei"&&<div className="instrument-palaces" aria-hidden="true">{Array.from({length:12},(_,index)=><i key={index}/>)}<b>{copy.mark}</b></div>}
+    {!["yijing","bazi","ziwei"].includes(mode)&&<div className="instrument-orbit" aria-hidden="true"><b>{copy.mark}</b>{items.slice(0,6).map((item,index)=><span className={`instrument-node instrument-node--${index+1}`} data-state={item.state||"active"} key={`${item.label}-${index}`}><small>{item.label}</small><em>{item.value}</em></span>)}</div>}
+    {items.length>0&&<dl className="instrument-legend">{items.slice(0,6).map((item,index)=><div key={`${item.label}-${index}`}><dt>{item.label}</dt><dd>{item.value}</dd></div>)}</dl>}
+    {children}
+    <figcaption>{caption}</figcaption>
+  </figure>;
+}
+
+export function RitualProgress({steps,current}:{steps:string[];current:number}){
+  return <div className="ritual-progress ritual-progress--staged" role="status" aria-live="polite">
+    {steps.map((step,index)=><span key={step} data-state={index<current?"done":index===current?"current":"waiting"}><i>{index<current?"✓":String(index+1).padStart(2,"0")}</i>{step}</span>)}
+  </div>;
+}

diff --git a/apps/web/tests/visual/v1-release.spec.ts b/apps/web/tests/visual/v1-release.spec.ts
@@ -50,7 +50,8 @@ test("onboarding draft can resume without inventing missing birth time", async (
   await page.getByLabel("如何称呼这个主体").fill("虚构续卷主体");
   await page.getByLabel("出生时刻未知").check();
   await page.getByRole("link", { name: "暂存退出" }).click();
-  await page.reload();
+  await expect(page).toHaveURL(/\/$/);
+  await page.goto("/onboarding");
   await expect(page.getByLabel("如何称呼这个主体")).toHaveValue("虚构续卷主体");
   await expect(page.getByLabel("出生时刻未知")).toBeChecked();
   await expect(page.getByText("第 1—3 步，共 8 步")).toBeVisible();

diff --git a/scripts/validate_product_spine_v1.py b/scripts/validate_product_spine_v1.py
@@ -17,9 +17,10 @@ def main() -> None:
     nav_labels = ['label: "首页"', 'label: "记录"', 'label: "合参"', 'label: "三际录"', 'label: "我的"']
     assert all(label in shell for label in nav_labels), "five ordinary navigation labels required"
     assert shell.count("subtitle:") == 5, "ordinary primary navigation must contain exactly five entries"
-    for label in ("六象合参", "三际断章", "宿世星图", "中阴之门", "命势长图", "缘契图", "观照录", "历次命卷", "设置与数据管理"):
-        assert label in shell, f"desktop feature navigation missing: {label}"
-    assert "product-mobile-nav" in shell and "DESKTOP_FEATURES.map" in shell
+    consult = read("apps/web/components/ConsultCenter.tsx")
+    for label in ("易经三钱", "八字", "紫微", "六象合参", "宿世星图", "中阴之门", "缘契图", "三际断章与命势"):
+        assert label in consult, f"consult capability missing: {label}"
+    assert "product-mobile-nav" in shell and "TOOLS.slice" in consult
 
     liuxiang = read("apps/web/components/LiuxiangReadiness.tsx")
     for required in ("真实映射规则尚未通过审校", "不显示任何合成测试结果", "<VerdictBanner status={run.status}>"):

diff --git a/scripts/validate_v1_ux_evidence.py b/scripts/validate_v1_ux_evidence.py
@@ -36,6 +36,9 @@ EXPECTED = {
     "v1-1-bazi-unknown-time-1440.png": ("/consult/bazi", 1440, 1000, "八字未知时辰边界"),
     "v1-1-ziwei-research-1440.png": ("/consult/ziwei", 1440, 1000, "紫微研究输入"),
     "v1-1-network-offline-390.png": ("/offline", 390, 844, "网络失败离线壳"),
+    "v1-2-yijing-instrument-1440.png": ("/results/synthetic-yijing-instrument", 1440, 1100, "易经六爻演变仪"),
+    "v1-2-bazi-instrument-1440.png": ("/consult/bazi", 1440, 1100, "八字四柱结构台"),
+    "v1-2-ziwei-instrument-1440.png": ("/consult/ziwei", 1440, 1100, "紫微十二宫盘"),
 }
 
 
@@ -65,7 +68,7 @@ def expected_manifest() -> dict[str, object]:
             }
         )
     return {
-        "schema_version": "sanji-v1-1-evidence-manifest-1.0",
+        "schema_version": "sanji-v1-2-evidence-manifest-1.0",
         "evidence_class": "synthetic_conformance",
         "contains_real_user_data": False,
         "contains_provider_output": False,

diff --git a/docs/product/v1-2-zhuxiang-instruments.md b/docs/product/v1-2-zhuxiang-instruments.md
@@ -1,0 +1,48 @@
+# V1.2「诸象成仪」视觉系统
+
+## 目标
+
+“诸象成仪”把已有确定性结构投影为可阅读的研究仪器，使用户能够先看见主结构，再按需展开证据和版本。它是展示层，不是第二套算法。
+
+## 八类仪器
+
+| 能力 | 仪器 | 只允许投影的内容 |
+| --- | --- | --- |
+| 易经三钱 | 六爻演变仪 | 六爻阴阳、动爻、本卦和变卦 |
+| 八字 | 四柱结构台 | 当前 Profile 返回的年、月、日、时柱 |
+| 紫微 | 十二宫盘 | 已实现的命宫、身宫、五行局和宫位结构 |
+| 六象 | 六象证据轮 | 六类资料覆盖、候选状态、支持与逆证 |
+| 宿世 | 候选星图 | 带认识状态的候选及其排序 |
+| 中阴 | 过渡之门 | 当前执行返回的过渡候选与资料状态 |
+| 缘契 | 双主体关系结 | 单方/双方边界、候选和冲突状态 |
+| 命势 | 命势计时仪 | 已授权事实数量、时间粒度和未来窗口状态 |
+
+## 真实状态与动效
+
+执行过程只使用真实请求状态，统一表达为“归卷—校核/成图—显现/成卷”。不展示伪造百分比，不用等待动画掩盖错误。返回结果后才显示对应仪器；资料不足继续使用结构化“不成断”状态。
+
+动画遵守 `prefers-reduced-motion`。所有图形都有标题、图注或现有文字详情作为等价回退，状态不只依赖颜色。
+
+## 工程边界
+
+- `ObservationInstrument` 只接收 API 已返回或页面已持有的显示值。
+- Web 不重算四柱、宫位、卦象、候选、分数、吉凶、应期或 Hash。
+- 不修改 `sanji-engine`、Ruleset、Profile、Golden、migration 或受保护 Hash。
+- 不新增远程字体、图表库、追踪脚本或第三方运行时依赖。
+- 截图继续使用完全虚构的 `synthetic_conformance` 数据。
+
+## 验收
+
+桌面、平板、手机分别检查信息层级、文本回退、键盘阅读顺序和减少动态模式。受影响的 Snapshot 必须逐张审核后单独更新；禁止提高 Diff 容差或批量接受变化。
+
+本地验收结果：
+
+- Next.js production build：44 个路由构建成功；
+- Playwright 桌面、平板与手机矩阵：57/57；
+- 合成视觉证据：26/26，其中新增易经、八字、紫微三张仪器结果页；
+- Python 全量回归：248 项通过，15 项按本地环境条件跳过；
+- Storybook production build：通过；
+- 产品语言、文档链接、发布静态门禁、便携性、Secret Scan：通过；
+- 交接清单中的 17 个受保护 Hash：全部保持。
+
+第一次并行视觉运行暴露“暂存退出后立即 reload”的测试竞态：导航快慢会决定 reload 发生在首页还是立卷页。测试改为等待退出落到首页，再显式进入立卷，未跳过测试或改变业务代码。第一次 Python 运行缺少项目 Node 路径，两个固定 iztro 对照返回外部执行错误；在标准运行环境复验后全套通过。两次失败均保留为本地诊断记录。
